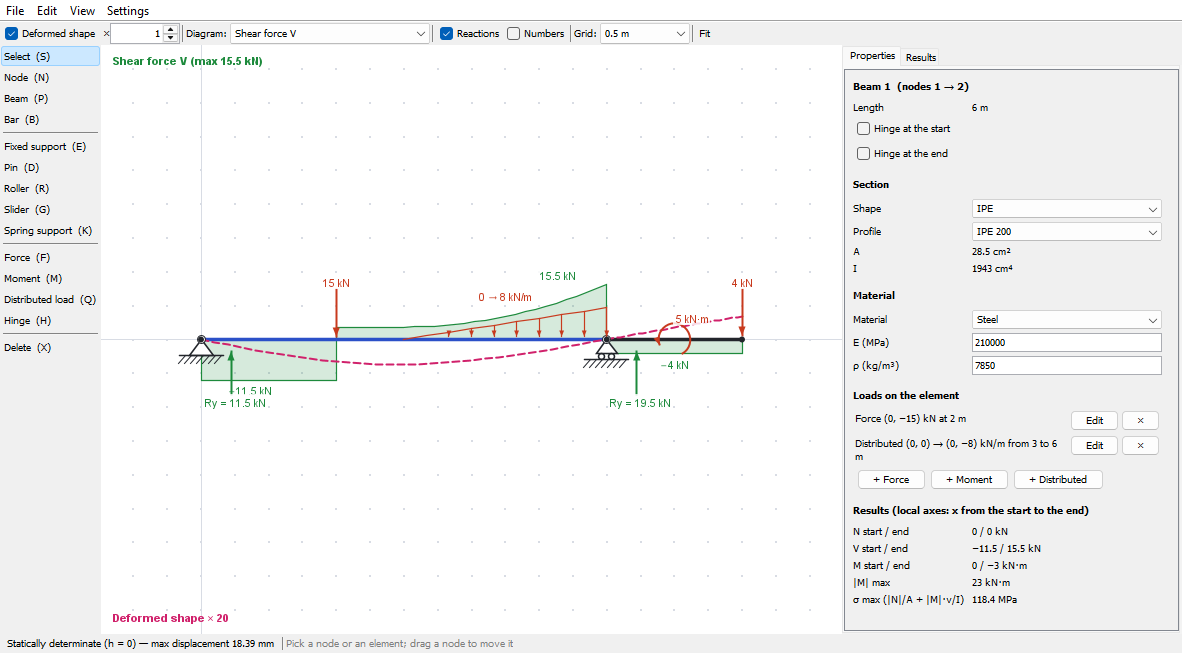
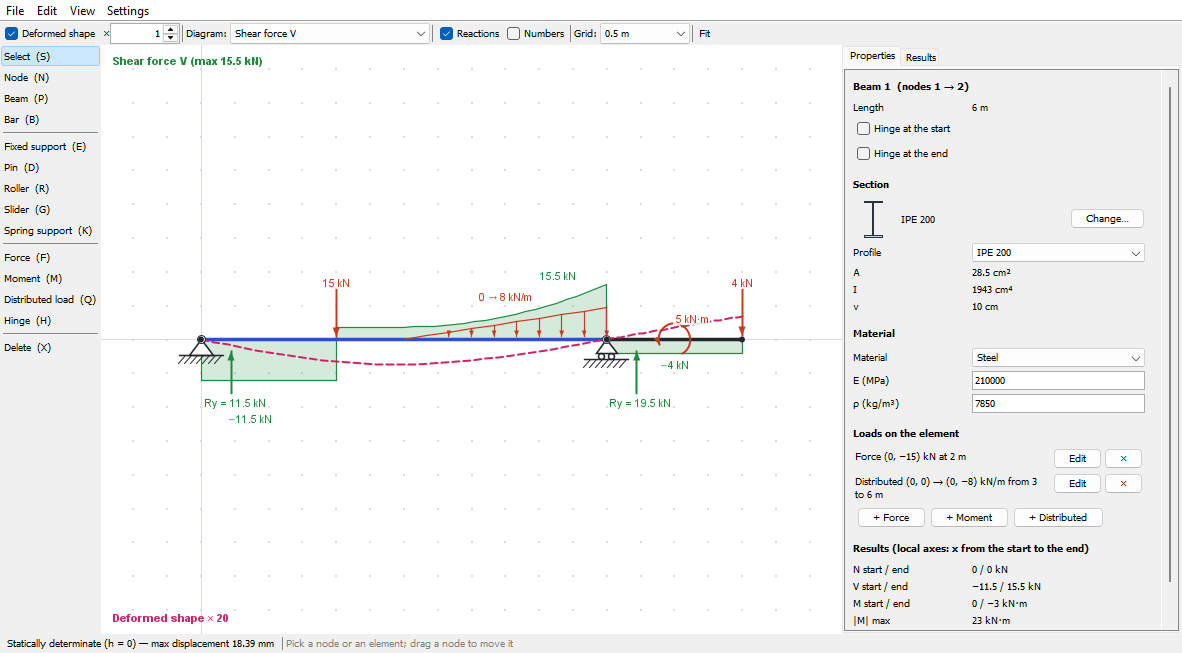
Keep the diagram's values and the reactions off the other labels
Every label keeps its place while the drawing is painted; the diagram's values come last and move further out, then along the element, until their place is free, and the reactions' labels step aside from each other.

diff --git a/src/rdm/ui/StructureCanvas.java b/src/rdm/ui/StructureCanvas.java
@@ -19,6 +19,7 @@ import java.awt.event.MouseWheelEvent;
 import java.awt.geom.Ellipse2D;
 import java.awt.geom.Line2D;
 import java.awt.geom.Path2D;
+import java.awt.geom.Rectangle2D;
 import java.awt.image.BufferedImage;
 import java.util.List;
 import javax.swing.JLabel;
@@ -455,6 +456,8 @@ final class StructureCanvas extends JPanel {
     g.setFont(new Font(Font.SANS_SERIF, Font.PLAIN, 11));
     Structure s = app.structure();
     Solution sol = app.solution();
+    taken.clear();
+    tags.clear();
     if (!exporting) paintGrid(g);
     if (sol.ok() && app.diagram != MainFrame.Diagram.NONE) paintDiagram(g, sol);
     paintElements(g, s);
@@ -462,6 +465,7 @@ final class StructureCanvas extends JPanel {
     paintSupportsAndHinges(g, s);
     paintLoads(g, s);
     if (sol.ok() && app.showReactions) paintReactions(g, s, sol);
+    paintTags(g);
     paintNodes(g, s);
     if (chain != null && !exporting) {
       double[] p = pointAt(mouseX, mouseY);
@@ -641,16 +645,16 @@ final class StructureCanvas extends JPanel {
       if (Math.abs(r[0]) > tiny) {
         double ux = Math.signum(r[0]);
         Symbols.arrow(g, x - ux * 55, y + 34, x - ux * 12, y + 34);
-        label(g, "Rx = " + Fmt.kN(r[0]), x - ux * 60, y + 50);
+        labelAway(g, "Rx = " + Fmt.kN(r[0]), x - ux * 60, y + 50, 0, 14);
       }
       if (Math.abs(r[1]) > tiny) {
         double uy = -Math.signum(r[1]);
         Symbols.arrow(g, x + 30, y - uy * 55, x + 30, y - uy * 12);
-        label(g, "Ry = " + Fmt.kN(r[1]), x + 34, y - uy * 62);
+        labelAway(g, "Ry = " + Fmt.kN(r[1]), x + 34, y - uy * 62, 0, -uy * 14);
       }
       if (Math.abs(r[2]) > tiny) {
         Symbols.moment(g, x, y, 30, r[2] > 0);
-        label(g, "Mz = " + Fmt.kNm(r[2]), x - 34, y - 38);
+        labelAway(g, "Mz = " + Fmt.kNm(r[2]), x - 34, y - 38, 0, -14);
       }
     }
   }
@@ -715,7 +719,6 @@ final class StructureCanvas extends JPanel {
     }
     if (max < 1e-9) return;
     double px = 55 / max;
-    placed.clear();
     List<ElementResult> rs = sol.elements;
     for (ElementResult r : rs) {
       // drawn on the local y side for positive values (screen: y down)
@@ -737,15 +740,18 @@ final class StructureCanvas extends JPanel {
       g.setStroke(new BasicStroke(1.2f));
       g.draw(p);
 
+      // the values are written last (paintTags), where they don't cover the loads' and reactions' labels
       double v0 = q.at(r, 0), v1 = q.at(r, r.L);
       if (Math.abs(v0 - v1) < 1e-9 * max) {
-        tag(g, r, r.L / 2, v0, px, unit, max);
+        tags.add(new Tag(r, r.L / 2, v0, px, unit, max, color));
       } else {
-        tag(g, r, 0, v0, px, unit, max);
-        tag(g, r, r.L, v1, px, unit, max);
+        tags.add(new Tag(r, 0, v0, px, unit, max, color));
+        tags.add(new Tag(r, r.L, v1, px, unit, max, color));
       }
       double peak = d == MainFrame.Diagram.M ? r.maxMAt() : -1;
-      if (peak > 0 && peak < r.L && Math.abs(q.at(r, peak)) > 1.01 * Math.max(Math.abs(v0), Math.abs(v1))) tag(g, r, peak, q.at(r, peak), px, unit, max);
+      if (peak > 0 && peak < r.L && Math.abs(q.at(r, peak)) > 1.01 * Math.max(Math.abs(v0), Math.abs(v1))) {
+        tags.add(new Tag(r, peak, q.at(r, peak), px, unit, max, color));
+      }
     }
     g.setColor(color);
     g.setFont(g.getFont().deriveFont(Font.BOLD));
@@ -753,23 +759,74 @@ final class StructureCanvas extends JPanel {
     g.setFont(g.getFont().deriveFont(Font.PLAIN));
   }
 
-  private void tag(Graphics2D g, ElementResult r, double x, double v, double px, String unit, double max) {
-    if (Math.abs(v) < 1e-6 * max) return;
-    double off = v * px + Math.signum(v) * 10;
-    // labels at the ends a little inside the element, so that neighbours don't write over each other
-    double xi = Math.max(r.L * 0.12, Math.min(r.L * 0.88, x));
-    double X = sx(r.element.a.x + r.c * xi) - r.s * off, Y = sy(r.element.a.y + r.s * xi) - r.c * off;
-    String text = Fmt.num(v / 1e3) + unit;
-    // the same value where elements meet is written once
-    for (double[] p : placed) if (p[2] == Math.rint(v) && Math.hypot(p[0] - X, p[1] - Y) < 60) return;
-    placed.add(new double[] {X, Y, Math.rint(v)});
-    label(g, text, X, Y);
+  /** A value of the diagram to write: at x along the element, beside the diagram. */
+  private record Tag(ElementResult r, double x, double v, double px, String unit, double max, Color color) {}
+
+  private final List<Tag> tags = new java.util.ArrayList<>();
+  /** the labels written so far in this painting */
+  private final List<Rectangle2D> taken = new java.util.ArrayList<>();
+
+  /**
+   * The diagram's values, beside it: where a label is already written, a little further out (up to 5 steps),
+   * and the same value where elements meet only once.
+   */
+  private void paintTags(Graphics2D g) {
+    List<double[]> placed = new java.util.ArrayList<>();
+    for (Tag t : tags) {
+      if (Math.abs(t.v) < 1e-6 * t.max) continue;
+      ElementResult r = t.r;
+      // labels at the ends a little inside the element, so that neighbours don't write over each other
+      double x0 = Math.max(r.L * 0.12, Math.min(r.L * 0.88, t.x));
+      String text = Fmt.num(t.v / 1e3) + t.unit;
+      double X = Double.NaN, Y = 0;
+      // further from the element, then a little along it towards its middle, until the place is free
+      search:
+      for (int j = 0; j < 4; j++) {
+        double xi = x0 + Math.signum(r.L / 2 - x0) * j * 0.1 * r.L;
+        for (int k = 0; k < 6; k++) {
+          double off = t.v * t.px + Math.signum(t.v) * (10 + 14 * k);
+          double x = sx(r.element.a.x + r.c * xi) - r.s * off, y = sy(r.element.a.y + r.s * xi) - r.c * off;
+          if (Double.isNaN(X)) {
+            X = x;
+            Y = y;
+          }
+          Rectangle2D box = box(g, text, x, y);
+          if (taken.stream().noneMatch(box::intersects)) {
+            X = x;
+            Y = y;
+            break search;
+          }
+        }
+      }
+      double fx = X, fy = Y;
+      if (placed.stream().anyMatch(p -> p[2] == Math.rint(t.v) && Math.hypot(p[0] - fx, p[1] - fy) < 60)) continue;
+      placed.add(new double[] {X, Y, Math.rint(t.v)});
+      g.setColor(t.color);
+      label(g, text, X, Y);
+    }
   }
 
-  private final List<double[]> placed = new java.util.ArrayList<>();
+  /** A label where it is free: at the point, else moved by (dx, dy) a few times. */
+  private void labelAway(Graphics2D g, String text, double x, double y, double dx, double dy) {
+    for (int k = 0; k < 5; k++) {
+      Rectangle2D box = box(g, text, x + k * dx, y + k * dy);
+      if (taken.stream().noneMatch(box::intersects)) {
+        label(g, text, x + k * dx, y + k * dy);
+        return;
+      }
+    }
+    label(g, text, x, y);
+  }
 
-  /** Text centred on a point, on a white halo. */
-  private static void label(Graphics2D g, String text, double x, double y) {
+  /** Where label() writes a text. */
+  private static Rectangle2D box(Graphics2D g, String text, double x, double y) {
+    var fm = g.getFontMetrics();
+    int w = fm.stringWidth(text);
+    return new Rectangle2D.Double(x - w / 2.0 - 2, y + fm.getAscent() / 2.0 - 1 - fm.getAscent(), w + 4, fm.getHeight());
+  }
+
+  /** Text centred on a point, on a white halo; its place is kept, for the diagram's values to keep off. */
+  private void label(Graphics2D g, String text, double x, double y) {
     var fm = g.getFontMetrics();
     int w = fm.stringWidth(text);
     float tx = (float) (x - w / 2.0), ty = (float) (y + fm.getAscent() / 2.0 - 1);
@@ -778,5 +835,6 @@ final class StructureCanvas extends JPanel {
     g.fillRect((int) tx - 2, (int) (ty - fm.getAscent()), w + 4, fm.getHeight());
     g.setColor(c);
     g.drawString(text, tx, ty);
+    taken.add(box(g, text, x, y));
   }
 }
